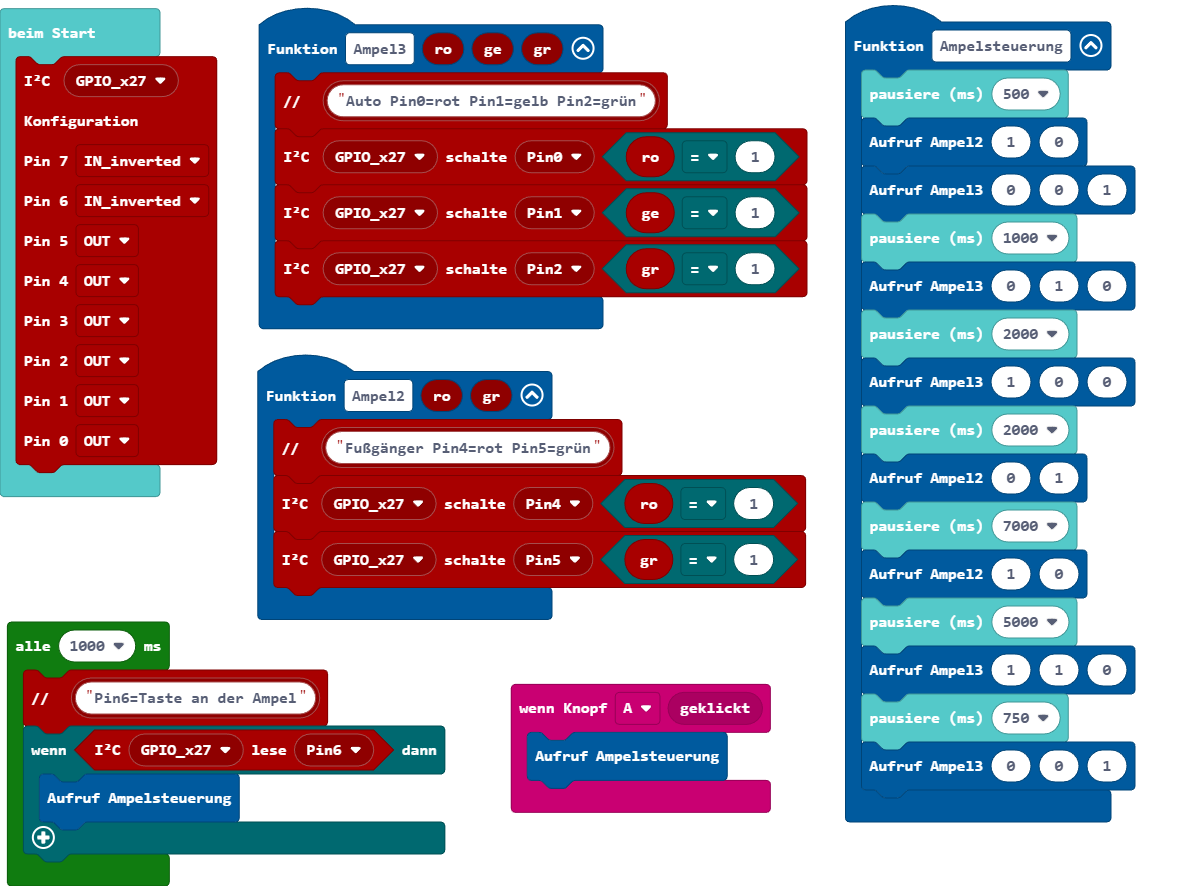
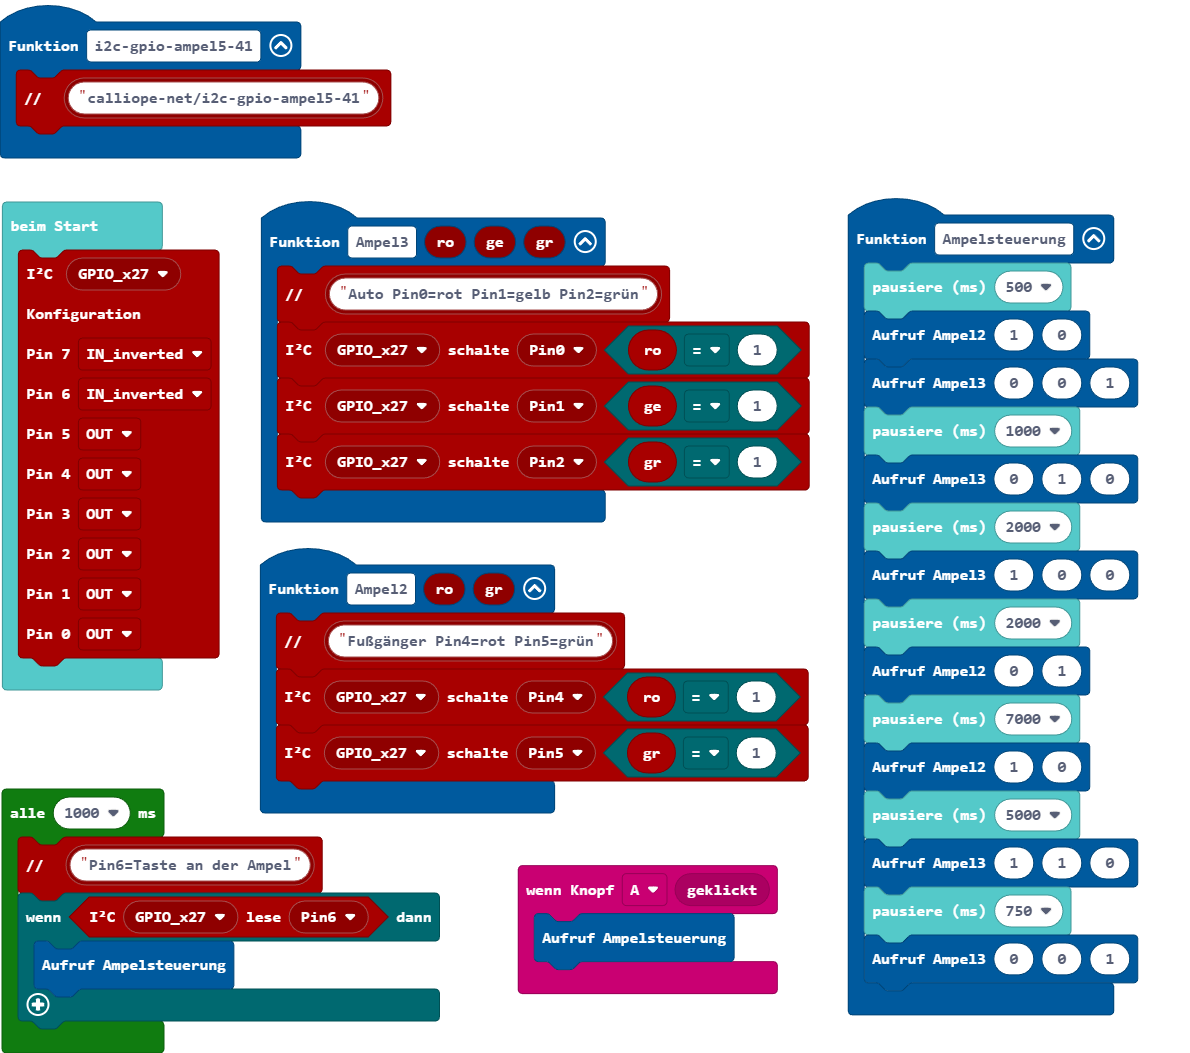
Aktualisiere main.blocks, main.ts

diff --git a/main.ts b/main.ts
@@ -29,6 +29,9 @@ function Ampel2 (ro: number, gr: number) {
     pins.gpio_writeBit(pins.pins_gpio_I2C_ADDRESS(pins.gpio_eI2C_ADDRESS.GPIO_x27), pins.pins_gpio_pin(pins.gpio_epin.Pin4), ro == 1)
     pins.gpio_writeBit(pins.pins_gpio_I2C_ADDRESS(pins.gpio_eI2C_ADDRESS.GPIO_x27), pins.pins_gpio_pin(pins.gpio_epin.Pin5), gr == 1)
 }
+function i2cgpioampel541 () {
+    pins.comment(pins.pins_text("calliope-net/i2c-gpio-ampel5-41"))
+}
 pins.gpio_setMode(
 pins.pins_gpio_I2C_ADDRESS(pins.gpio_eI2C_ADDRESS.GPIO_x27),
 pins.gpio_eIO.IN_inverted,
